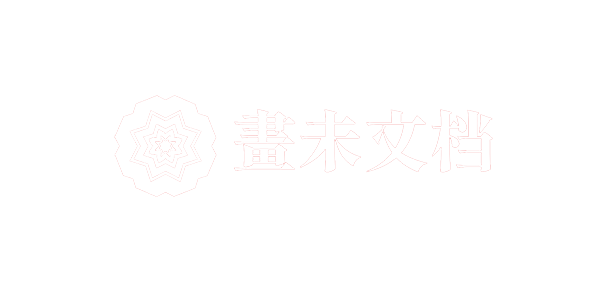
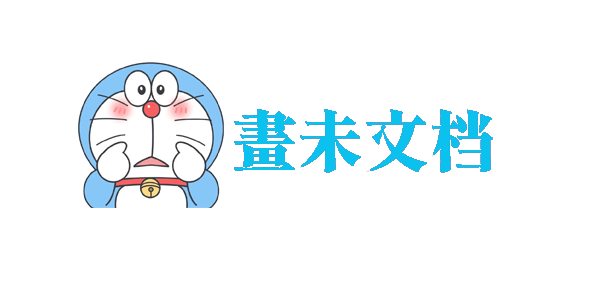
Add files via upload

Changed region(s): [[0.1246, 0.2165, 0.8098, 0.7423]]

diff --git a/docs/index.html b/docs/index.html
@@ -10,10 +10,8 @@
 <link rel="icon" href="https://cdn.jsdelivr.net/gh/justacoder99/r2coding@master/img/favicon.ico">
 <link rel="stylesheet" href="https://cdn.jsdelivr.net/gh/justacoder99/r2coding@master/css/vue.css">
 <link rel="stylesheet" href="https://cdn.jsdelivr.net/gh/justacoder99/r2coding@master/css/style.css">
-
-
-
 </head>
+
 <body>
 <div id="app"></div>
 <script>
@@ -24,7 +22,7 @@ window.$docsify ={
    onlyCover:false,
    auto2top:true,
    loadSidebar: false,
-   logo:'https://s4.ax1x.com/2022/01/21/7ROxcd.png',
+   logo:'https://s4.ax1x.com/2022/01/25/7HBOKK.png',
    nameLink:'http://www.txwl.vip/',
    'flexible-alerts':{
      style:'flat'
@@ -43,14 +41,16 @@ window.$docsify ={
       themeable: {
           readyTransition : true, // default
           responsiveTables: true  // default
-      }
+      },
                  }
 </script>
+<!-- <script src="//cdn.jsdelivr.net/gh/justacoder99/r2coding@master/js/index.js"></script> 深色模式 -->
 <script src="//cdn.jsdelivr.net/gh/justacoder99/r2coding@master/js/docsify@4.js"></script> <!-- *首页 -->
-<script src="//cdn.jsdelivr.net/gh/justacoder99/r2coding@master/js/index.js"></script> <!-- 深色模式 -->
 <script src="//cdn.jsdelivr.net/npm/docsify/lib/plugins/emoji.min.js"></script> <!-- 表情 emoji -->
 <script src="//cdn.jsdelivr.net/npm/docsify/lib/plugins/zoom-image.min.js"></script> <!-- 图片缩放 Zoom image -->
 <script src="//cdn.jsdelivr.net/npm/docsify-copy-code/dist/docsify-copy-code.min.js"></script> <!-- 复制到剪贴板 -->
+<script src="//cdn.jsdelivr.net/npm/prismjs@1/components/prism-bash.min.js"></script> <!-- bash 代码高亮 -->
+<script src="//cdn.jsdelivr.net/npm/prismjs@1/components/prism-php.min.js"></script> <!-- PHP 代码高亮 -->
 
 </body>
 </html>

diff --git a/docs/_coverpage.md b/docs/_coverpage.md
@@ -1,5 +1,5 @@
 
-![logo](https://s4.ax1x.com/2022/01/21/7ROxcd.png)
+![logo](https://s4.ax1x.com/2022/01/25/7HBOKK.png)
 
 
 - 本站取名为 **畫未文档**，为自学文档，是自学编程以来所用资源和分享内容的大聚合。旨在为编程自学者提供一系列清晰的学习路线、靠谱的资源、高效的工具、和务实的文章，方便自己也方便他人。**网站内容会持续保持更新，欢迎收藏品鉴！**
